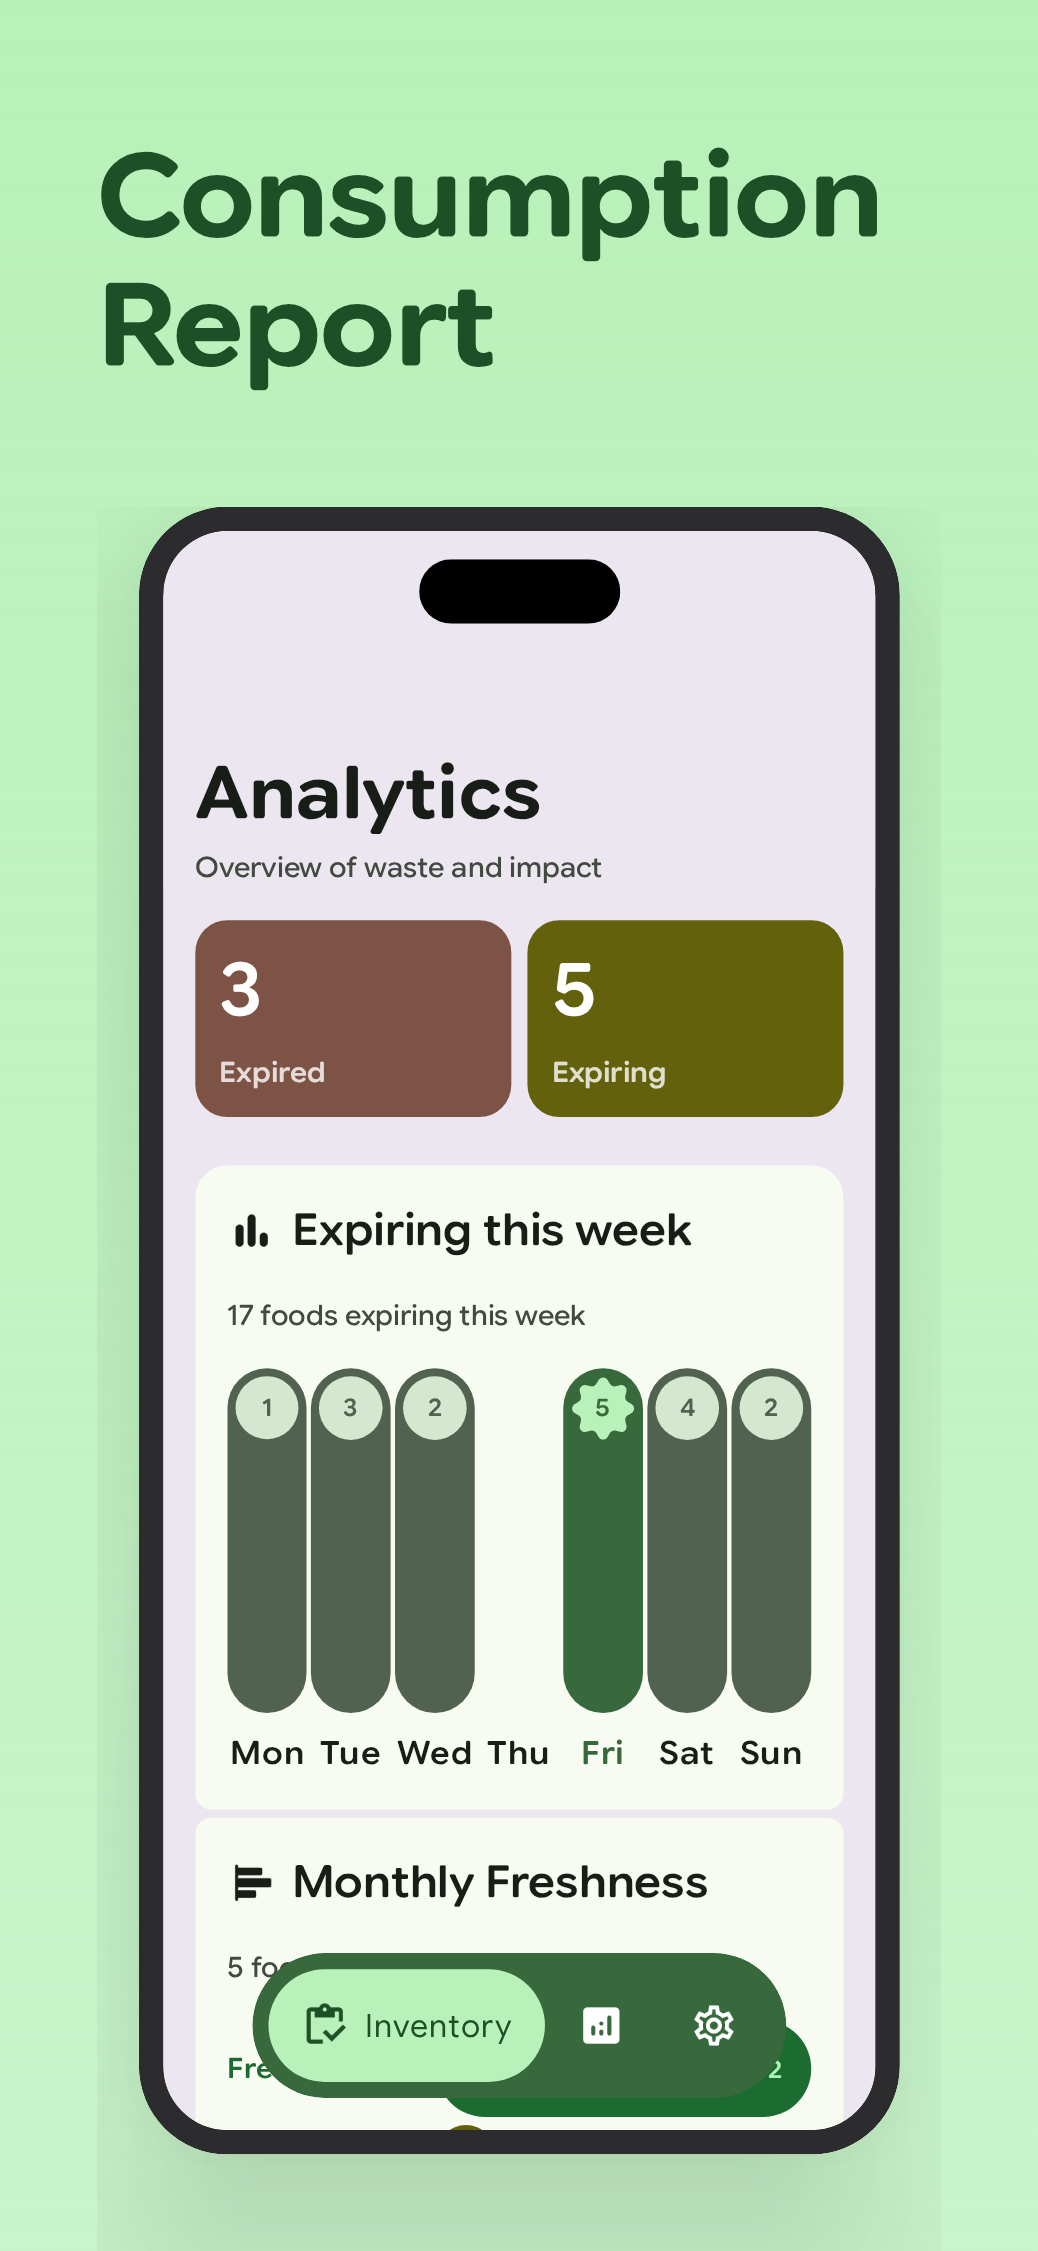
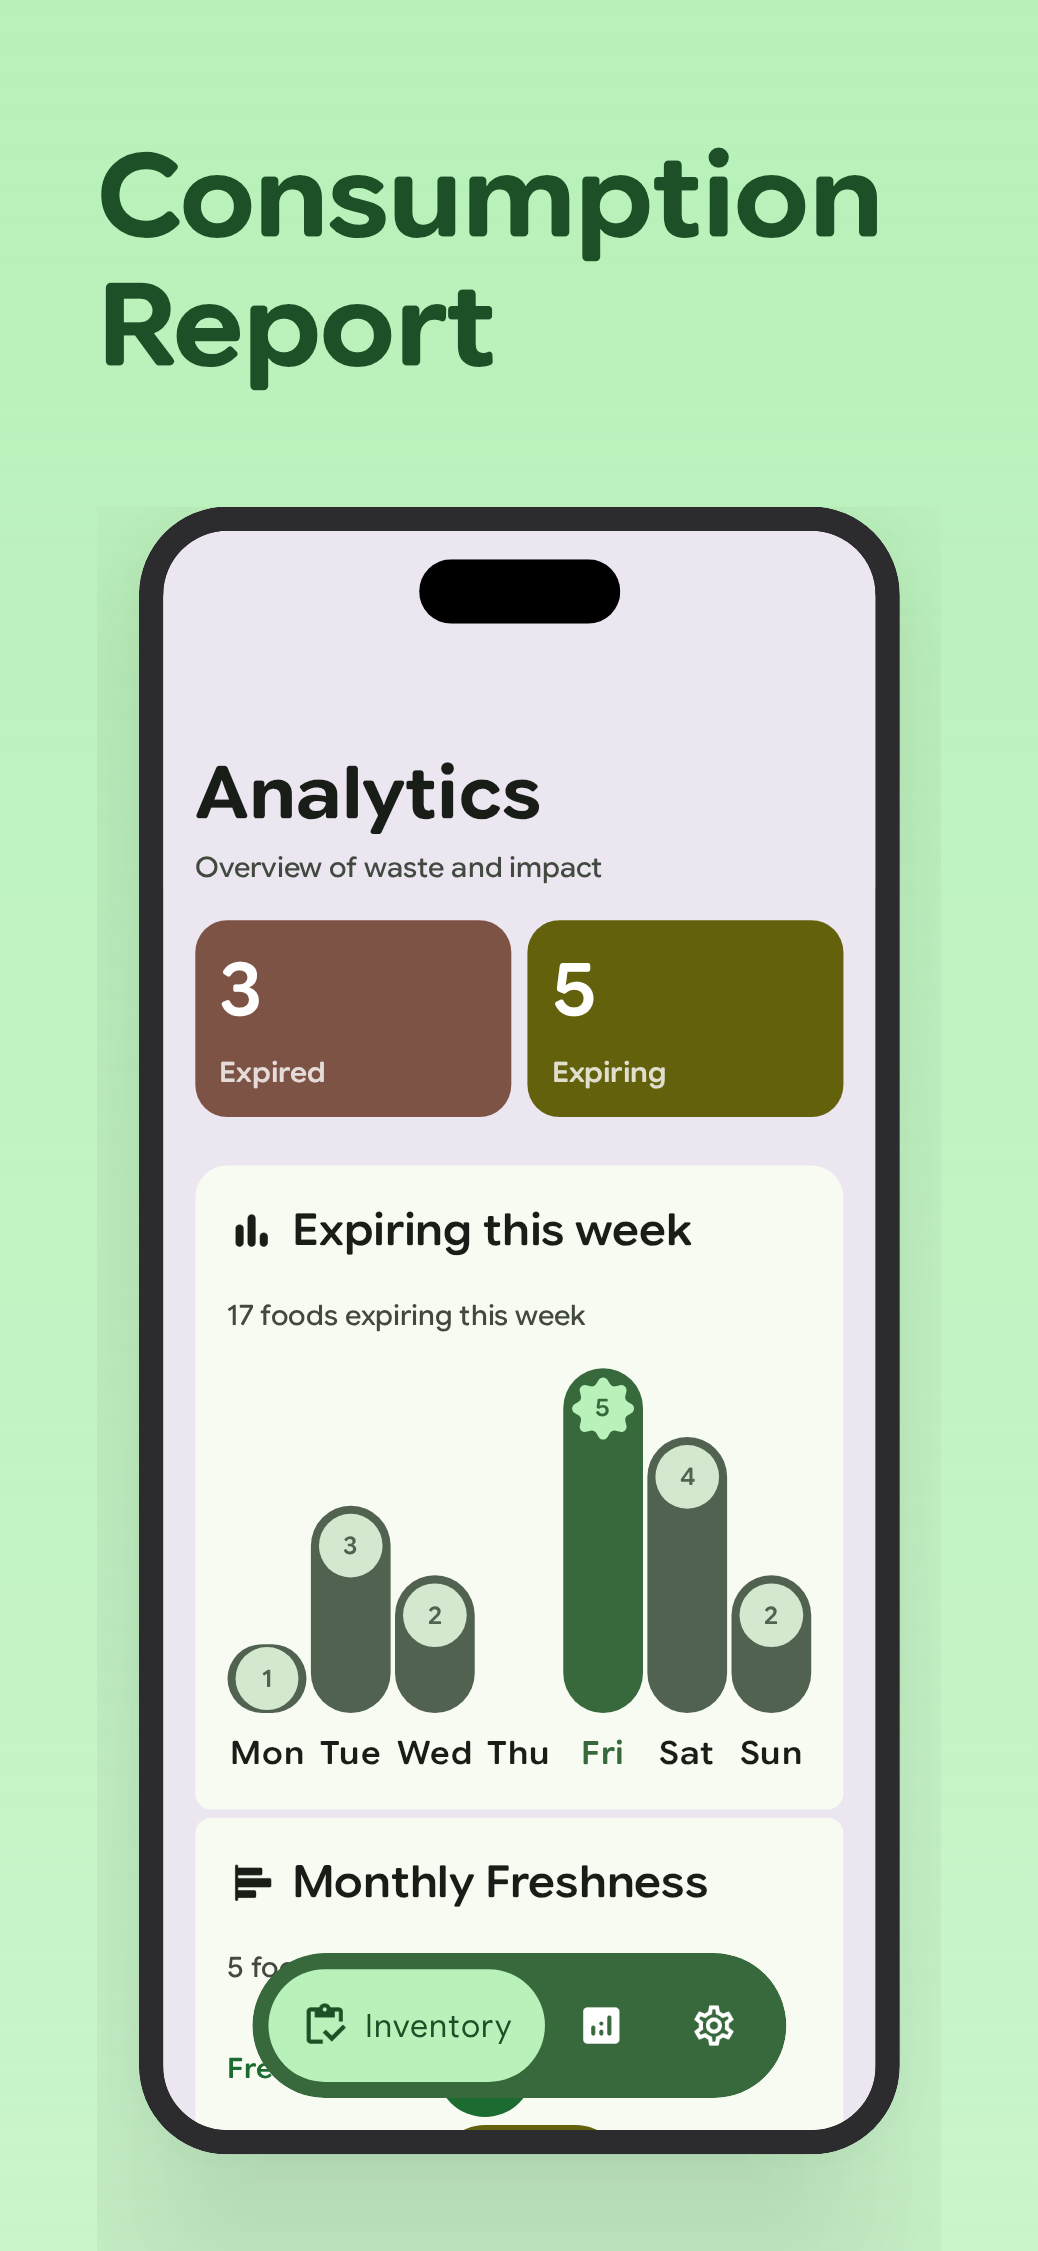
🐛 fix(analytics): refine weekly expiry chart layout and preview configuration
- **Analytics UI**:
    - Wrap `ChartBar` in a bottom-aligned container `Box` using `fillMaxHeight` fraction to ensure proper bar height rendering.
    - Update empty state typography in `WeeklyExpiryAnalytics` to `bodySmall`.
    - Remove unused `LocalAlgidySpacing` reference.
- **Previews**:
    - Add explicit `screenColor` parameter to `AnalyticsScreenPreview`.
    - Update mock freshness statistics in `FakeData` and refresh preview baseline screenshots.

Changed region(s): [[0.2158, 0.5908, 0.4624, 0.7774], [0.6166, 0.5908, 0.8015, 0.7463], [0.4624, 0.9018, 0.8015, 0.964]]

diff --git a/feature/analytics/src/main/kotlin/com/nhuhuy/algidy/feature/analytics/presentation/component/WeeklyExpiryAnalytics.kt b/feature/analytics/src/main/kotlin/com/nhuhuy/algidy/feature/analytics/presentation/component/WeeklyExpiryAnalytics.kt
@@ -6,6 +6,7 @@ import androidx.compose.foundation.layout.Box
 import androidx.compose.foundation.layout.Column
 import androidx.compose.foundation.layout.Row
 import androidx.compose.foundation.layout.aspectRatio
+import androidx.compose.foundation.layout.fillMaxHeight
 import androidx.compose.foundation.layout.fillMaxWidth
 import androidx.compose.foundation.layout.padding
 import androidx.compose.foundation.shape.CircleShape
@@ -26,7 +27,6 @@ import com.nhuhuy.algidy.core.designsystem.component.CardLayout
 import com.nhuhuy.algidy.core.designsystem.icon.AlgidyIcons
 import com.nhuhuy.algidy.core.designsystem.icon.toImageVector
 import com.nhuhuy.algidy.core.designsystem.tokens.LocalAlgidyShapes
-import com.nhuhuy.algidy.core.designsystem.tokens.LocalAlgidySpacing
 import com.nhuhuy.algidy.core.presentation.R
 import com.nhuhuy.algidy.core.presentation.utils.ItemPosition
 import com.nhuhuy.algidy.core.presentation.utils.toVerticalSegmentedShape
@@ -39,7 +39,6 @@ fun WeeklyExpiryAnalytics(
     weeklyExpiryStatistics: ImmutableList<WeeklyExpiryStatisticUiModel>,
     modifier: Modifier = Modifier,
 ) {
-    LocalAlgidySpacing.current
     CardLayout(
         icon = AlgidyIcons.Analytics.WeeklyFoodChart.toImageVector(),
         title = stringResource(R.string.analytics_card_expiring_this_week),
@@ -83,7 +82,7 @@ private fun NoExpiryFoodContent(
     ) {
         Text(
             text = stringResource(R.string.analytics_no_food_expiring_this_week),
-            style = MaterialTheme.typography.bodyLarge,
+            style = MaterialTheme.typography.bodySmall,
             fontWeight = FontWeight.SemiBold
         )
     }
@@ -137,12 +136,21 @@ private fun WeeklyExpiryChartItem(
         horizontalAlignment = Alignment.CenterHorizontally,
         verticalArrangement = Arrangement.spacedBy(8.dp)
     ) {
-        if (fraction > 0f) {
-            ChartBar(
-                modifier = Modifier.weight(safePercent),
-                value = value,
-                isPrimary = isPrimary,
-            )
+        Box(
+            modifier = Modifier
+                .weight(1f)
+                .fillMaxWidth(),
+            contentAlignment = Alignment.BottomCenter
+        ) {
+            if (fraction > 0f) {
+                ChartBar(
+                    modifier = Modifier
+                        .fillMaxWidth()
+                        .fillMaxHeight(safePercent),
+                    value = value,
+                    isPrimary = isPrimary,
+                )
+            }
         }
 
         Text(

diff --git a/feature/analytics/src/main/kotlin/com/nhuhuy/algidy/feature/analytics/presentation/preview/AnalyticsScreenPreview.kt b/feature/analytics/src/main/kotlin/com/nhuhuy/algidy/feature/analytics/presentation/preview/AnalyticsScreenPreview.kt
@@ -19,7 +19,8 @@ fun AnalyticsScreenPreview() {
                 "Consumption Report"
             ),
             backgroundColor = MaterialTheme.colorScheme.primaryContainer,
-            textColor = MaterialTheme.colorScheme.onPrimaryContainer
+            textColor = MaterialTheme.colorScheme.onPrimaryContainer,
+            screenColor = MaterialTheme.colorScheme.surfaceContainerHigh
         ) {
             AnalyticsScreen(
                 uiState = FakeData.mockAnalyticsUiState,

diff --git a/feature/analytics/src/main/kotlin/com/nhuhuy/algidy/feature/analytics/presentation/preview/FakeData.kt b/feature/analytics/src/main/kotlin/com/nhuhuy/algidy/feature/analytics/presentation/preview/FakeData.kt
@@ -26,7 +26,7 @@ internal object FakeData {
     )
 
     val mockFreshness = FreshnessStatistic(
-        fresh = 32,
+        fresh = 0,
         warning = 10,
         urgent = 5,
         expiry = 3
